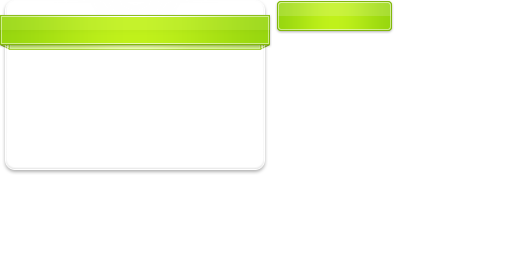
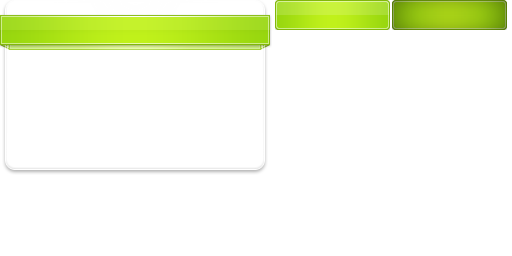
使用cocostudio产生的界面来实现对话框1

Changed region(s): [[0.5312, 0.0, 1.0, 0.1562]]

diff --git a/Classes/Dialog.h b/Classes/Dialog.h
@@ -2,6 +2,9 @@
 #define __DIALOG_H__
 
 #include "cocos2d.h"
+#include "extensions/cocos-ext.h"
+#include "ui/CocosGUI.h"
+#include "cocostudio/CocoStudio.h"
 
 struct TextButton
 {
@@ -25,6 +28,8 @@ public:
 	void onTouchEnded(cocos2d::Touch* touch, cocos2d::Event* event);
 	void onTouchCancelled(cocos2d::Touch* touch, cocos2d::Event* event);
 
+	void touchEvent(cocos2d::Ref *pSender, cocos2d::ui::TouchEventType type);
+
 	void AddButton(const char* text, const cocos2d::ccMenuCallback& callback);
 	void SetTitle(std::string title);
 	void SetContent(std::string content);
@@ -35,7 +40,9 @@ private:
 	cocos2d::Menu* m_pMenu;
 	bool m_bMenuTouched{ false };
 
-	cocos2d::EventListenerTouchOneByOne* m_pTouchListener{nullptr};
+	cocos2d::EventListenerTouchOneByOne* m_pTouchListener{ nullptr };
+
+	cocos2d::ui::Layout* m_pLayout{ nullptr };
 };
 
 #endif

diff --git a/Classes/HelloWorldScene.cpp b/Classes/HelloWorldScene.cpp
@@ -137,13 +137,13 @@ bool HelloWorld::init()
 // 	card->GetPos().y = y;
 // 	m_iCardPark[x][y].m_pCard = card;
 // 	m_iCardPark[x][y].m_iMovePos = cocos2d::Point(card->GetPos());
-// 	auto dialog = Dialog::create();
-// 	dialog->SetTitle("Game Over");
-// 	//char temp[255];
-// 	sprintf(temp, "You got %d points!", m_nPoint);
-// 	dialog->SetContent(temp);
-// 	dialog->AddButton("Restart", CC_CALLBACK_1(HelloWorld::Restart, this));
-// 	addChild(dialog,2);
+	auto dialog = Dialog::create();
+	dialog->SetTitle("Game Over");
+	//char temp[255];
+	sprintf(temp, "You got %d points!", m_nPoint);
+	dialog->SetContent(temp);
+	dialog->AddButton("Restart", CC_CALLBACK_1(HelloWorld::Restart, this));
+	addChild(dialog,2);
 	return true;
 }
 
